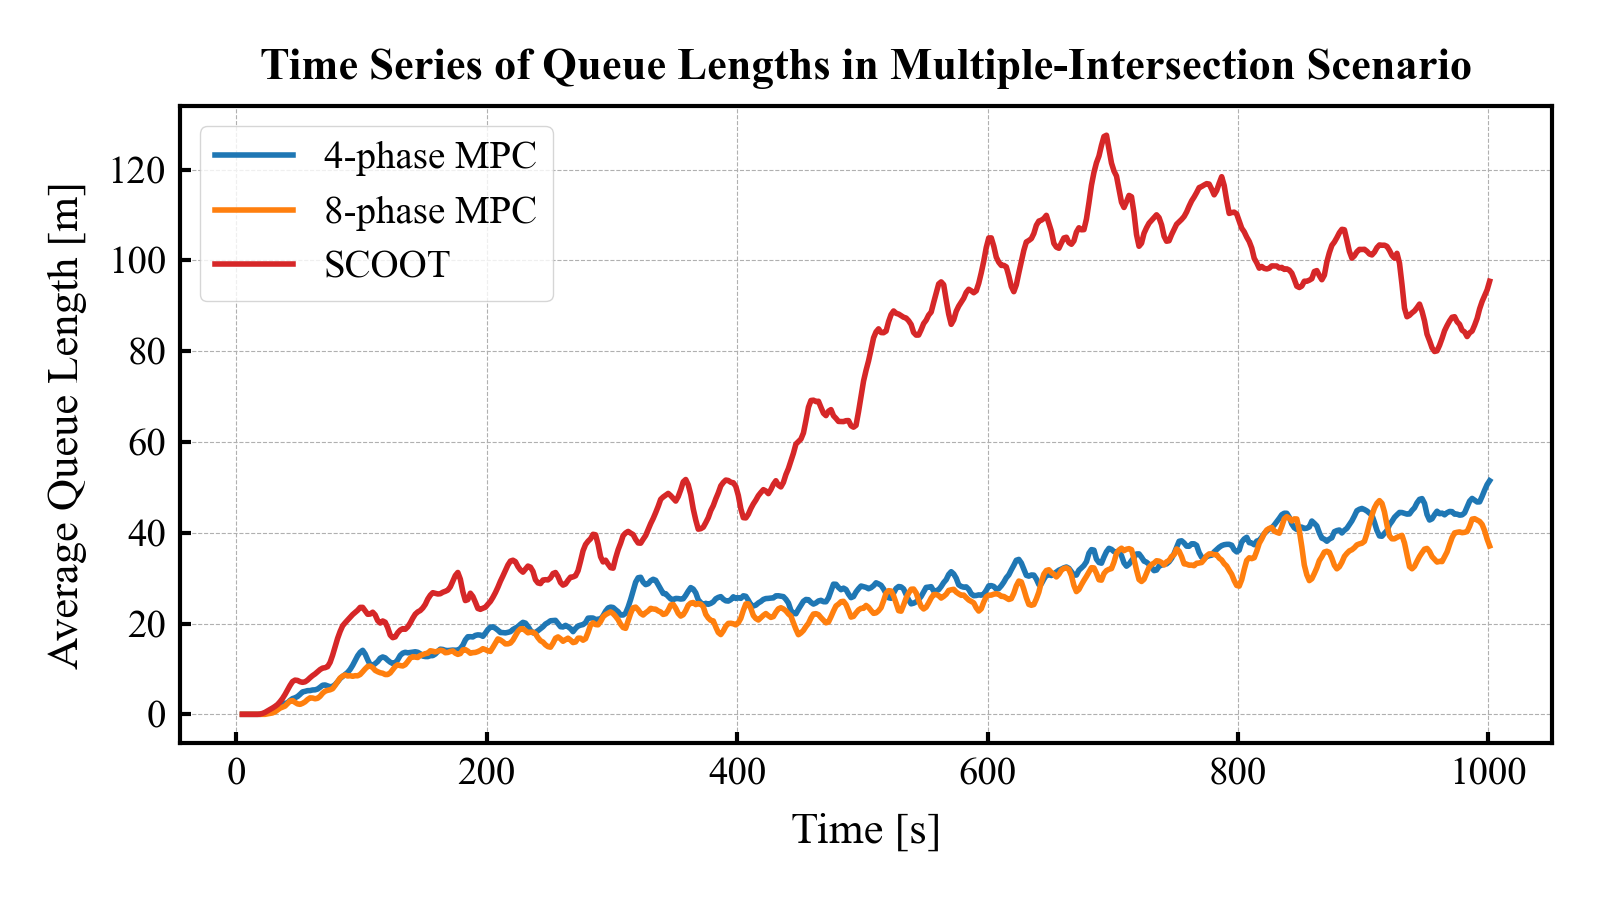
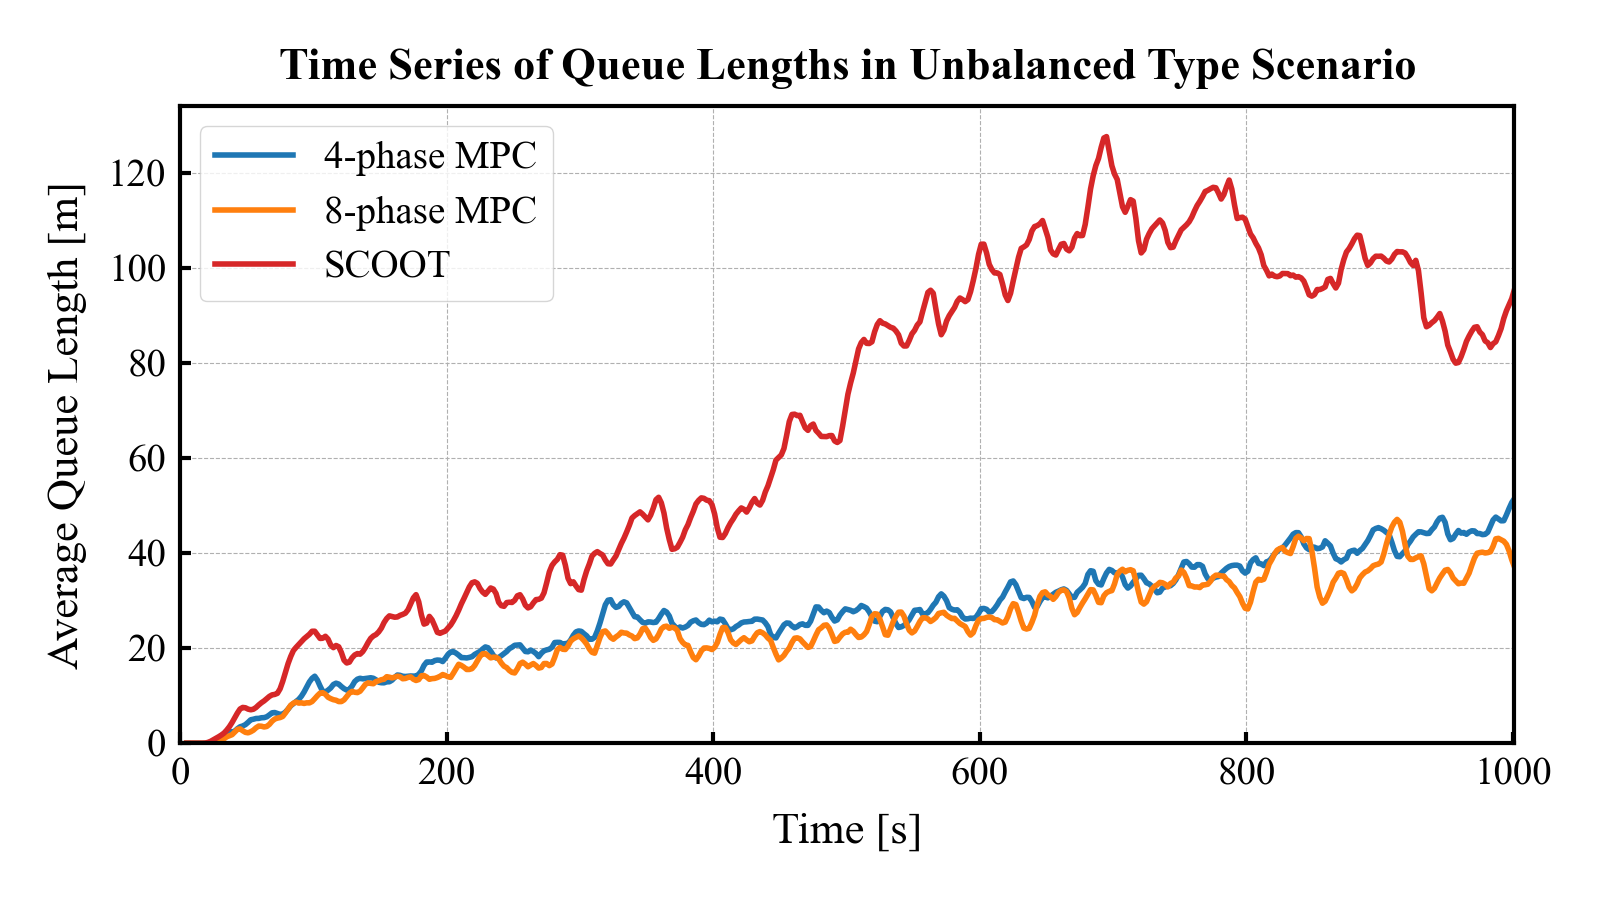
135-save experiments' results

diff --git a/misc/analysis/performance_metric_time_series_plots/multiple_intersection/plot.py b/misc/analysis/performance_metric_time_series_plots/multiple_intersection/plot.py
@@ -183,7 +183,9 @@ sns.lineplot(
 
 ax.set_title(config_yaml['figure']['title']['label'][config_yaml['target']['performance_metric']])
 ax.set_xlabel(config_yaml['figure']['x_axis']['label'])
+ax.set_xlim(left=0, right=max_time)
 ax.set_ylabel(config_yaml['figure']['y_axis']['label'][config_yaml['target']['performance_metric']]) 
+ax.set_ylim(bottom=0)
 ax.legend(title='')
 
 fig.tight_layout()
